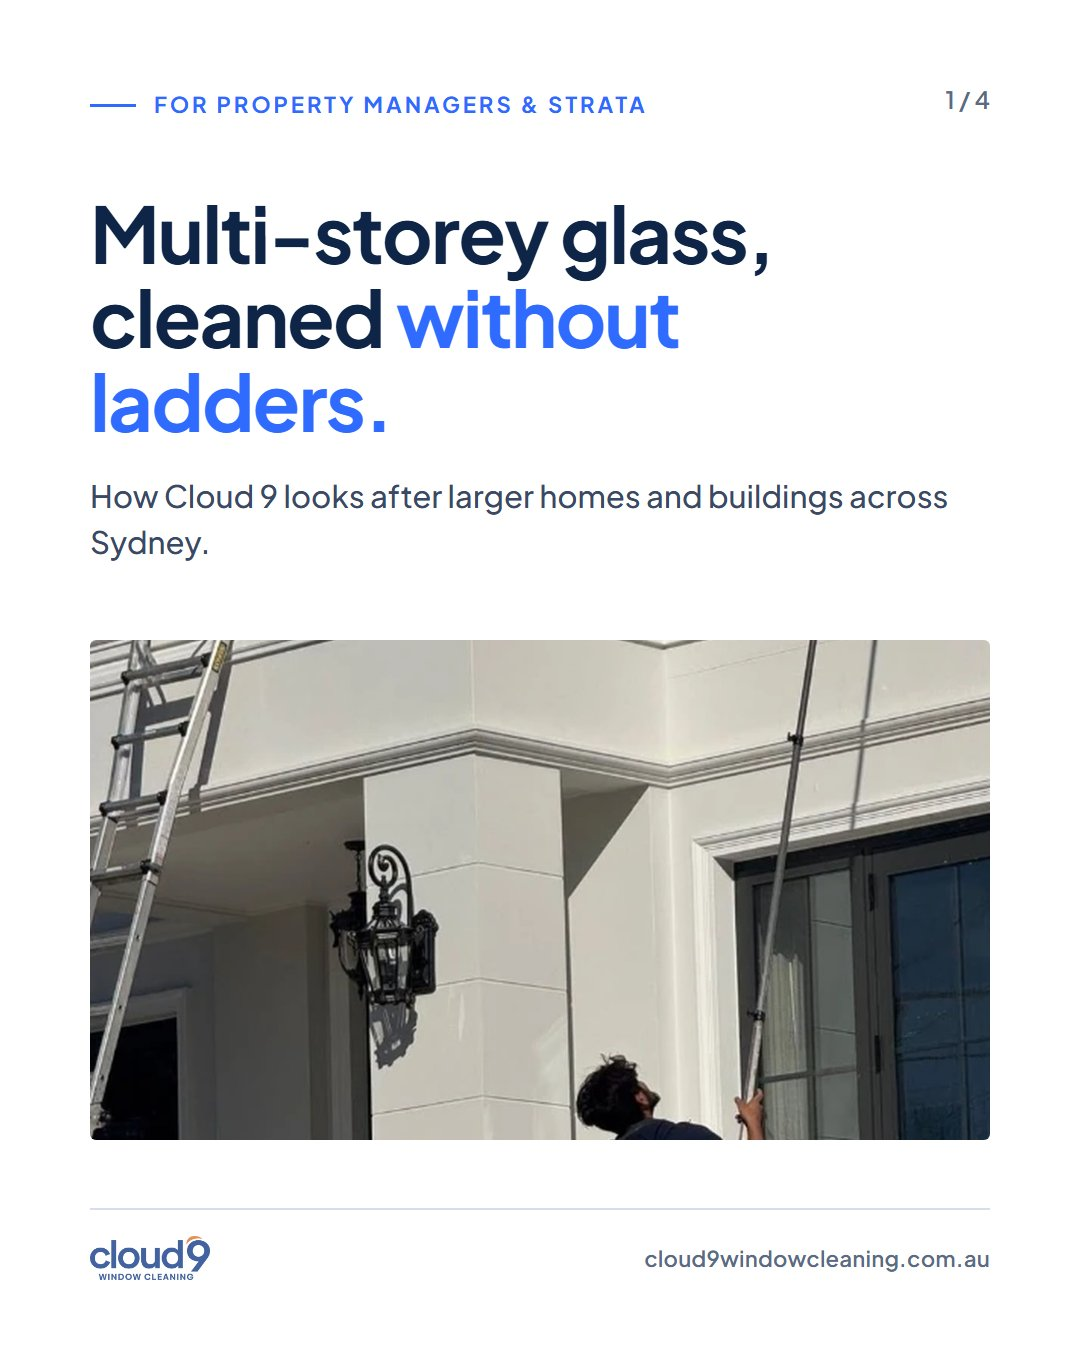
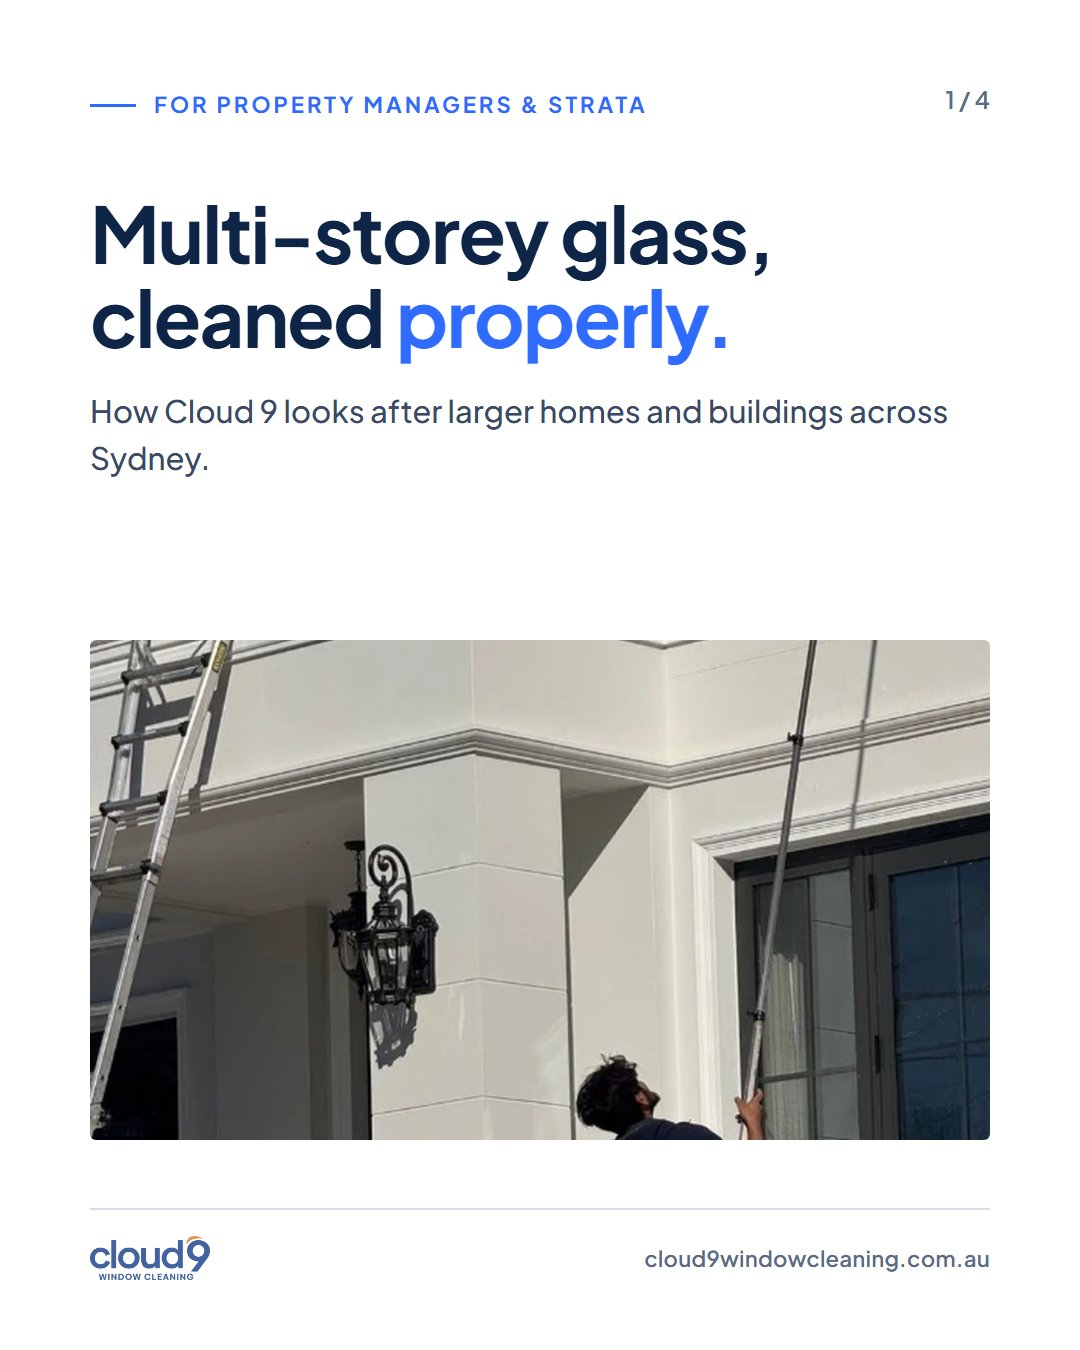
Cloud 9 LinkedIn sample: slide 1 headline 'cleaned properly' (team uses ladders)

Changed region(s): [[0.0611, 0.2178, 0.8861, 0.4356]]

diff --git a/cloud9-linkedin/index.html b/cloud9-linkedin/index.html
@@ -88,7 +88,7 @@ img{display:block;max-width:100%}
 <script>
 const LOGO='img/logo-blue.png';
 const POSTS=[
- {tag:'Image post',type:'Company milestone',img:'img/post-1-milestone.jpg?v=3',
+ {tag:'Image post',type:'Company milestone',img:'img/post-1-milestone.jpg?v=4',
   cap:`1,000 five-star reviews.
 
 This milestone belongs to our team and to every Sydney homeowner who trusted us with their home.
@@ -98,8 +98,8 @@ Each review comes from a real job: a technician arriving on time, taking care of
 Thank you for your support. We look forward to the next 1,000.
 
 #Sydney #SmallBusiness #CustomerExperience`},
- {tag:'Document carousel',type:'Service explainer',doc:'Multi-storey glass, cleaned without ladders',
-  imgs:[1,2,3,4].map(i=>`img/post-2-slide-${i}.jpg?v=3`),
+ {tag:'Document carousel',type:'Service explainer',doc:'Multi-storey glass, cleaned properly',
+  imgs:[1,2,3,4].map(i=>`img/post-2-slide-${i}.jpg?v=4`),
   cap:`Looking after a larger home or building in Sydney?
 
 Here is how our team cleans multi-storey glass safely and properly:
@@ -112,7 +112,7 @@ Quarterly, triannual and biannual maintenance plans are available.
 Call 0485 013 333 or visit cloud9windowcleaning.com.au
 
 #PropertyManagement #Strata #Sydney`},
- {tag:'Image post',type:'Industry insight',img:'img/post-3-pure-water.jpg?v=3',
+ {tag:'Image post',type:'Industry insight',img:'img/post-3-pure-water.jpg?v=4',
   cap:`Why we clean glass with pure water.
 
 Tap water carries minerals. When it dries on glass, those minerals can stay behind as spots.
@@ -122,7 +122,7 @@ Our deionised water system filters the water pure before it reaches your windows
 The result is streak-free glass that stays clearer for longer, with a 100% chemical-free process.
 
 #WindowCleaning #Sydney #Sustainability`},
- {tag:'Image post',type:'Meet the team',img:'img/post-4-meet-ryan.jpg?v=3',
+ {tag:'Image post',type:'Meet the team',img:'img/post-4-meet-ryan.jpg?v=4',
   cap:`Meet Ryan, our Operations Manager.
 
 Ryan looks after our day-to-day operations across Sydney, keeping our team organised and our clients looked after.
